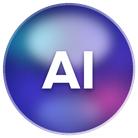
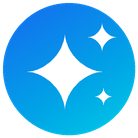
design(tabs): the AI tab is a flat brand-gradient disc with a white spark — the one filled item in the row, no glow

diff --git a/src/widgets/tab-bar/NativeTabsBar.tsx b/src/widgets/tab-bar/NativeTabsBar.tsx
@@ -18,12 +18,13 @@ const SF: Record<string, string> = {
   headphones: "headphones", video: "video.fill", "bar-chart-2": "chart.bar.fill", sliders: "slider.horizontal.3", bell: "bell.fill", user: "person.fill",
 };
 
-// The AI tab: a coloured glass sphere (aurora under a glass lens, "AI" mark) that lights up with the brand gradient while the tab is open.
+// The AI tab: a flat disc in the brand gradient with a white four-point spark — the one filled, coloured item in the row, so it stands apart
+// from the symbol tabs; the selected state is a touch deeper with a white ring.
 installTabReach();
 
-const AI_PEARL = { default: require("../../../assets/tabs/ai-glass.png"), selected: require("../../../assets/tabs/ai-glass-on.png") };
+const AI_DISC = { default: require("../../../assets/tabs/ai-glass.png"), selected: require("../../../assets/tabs/ai-glass-on.png") };
 // On the light bar the bead takes a blue spark and a deeper rim so it reads (the lit state is the same).
-const AI_PEARL_LIGHT = { default: require("../../../assets/tabs/ai-glass-light.png"), selected: require("../../../assets/tabs/ai-glass-on.png") };
+const AI_DISC_LIGHT = { default: require("../../../assets/tabs/ai-glass-light.png"), selected: require("../../../assets/tabs/ai-glass-on.png") };
 
 // The system tab bar (UITabBar): Liquid Glass on iOS 26 with no custom drawing. Every route is declared, in the role's order first;
 // the ones outside the role or not allowed right now are hidden. `bar` is false on screens that ask for no bar (the AI chat).
@@ -55,8 +56,8 @@ export function NativeTabsBar({ bar }: { bar: boolean }) {
             disabled={guard} // a visitor's tap on a personal tab never switches it: the (still emitted) press sends them to sign in
             listeners={guard ? { tabPress: () => router.push("/auth/login") } : undefined}
           >
-            {def.center ? <NativeTabs.Trigger.Icon src={dark ? AI_PEARL : AI_PEARL_LIGHT} renderingMode="original" /> : <NativeTabs.Trigger.Icon sf={SF[def.icon] as never} />}
-            <NativeTabs.Trigger.Label hidden={def.center}>{t(def.labelKey)}</NativeTabs.Trigger.Label>
+            {def.center ? <NativeTabs.Trigger.Icon src={dark ? AI_DISC : AI_DISC_LIGHT} renderingMode="original" /> : <NativeTabs.Trigger.Icon sf={SF[def.icon] as never} />}
+            <NativeTabs.Trigger.Label>{t(def.labelKey)}</NativeTabs.Trigger.Label>
             {n ? <NativeTabs.Trigger.Badge>{n > 99 ? "99+" : String(n)}</NativeTabs.Trigger.Badge> : null}
           </NativeTabs.Trigger>
         );

diff --git a/DESIGN.md b/DESIGN.md
@@ -45,8 +45,7 @@ iOS (flags on) is a glass-on-colour system.
 - **Cards** are frosted panes, not real glass (a native glass view per list row is too heavy): `glassFill` + `glassLine`, a short bright
   top sheen, no shadow (a shadow would show through the translucent fill). Card-shaped surfaces that are not `<Card>` (rows, panels,
   inputs) use the same two tokens; `surface` stays for opaque things (thumbs, sheets' content). Do not nest cards.
-- The tab bar is the system `NativeTabs` bar; the app's theme is handed to iOS (`Appearance.setColorScheme`) so it matches. The AI tab
-  is a glass-pearl icon (`assets/tabs/ai-glass*.png`: a light-bar variant with a blue spark, a lit selected state) and has no caption.
+- The tab bar is the system `NativeTabs` bar; the app's theme is handed to iOS (`Appearance.setColorScheme`) so it matches. The AI tab is the one filled item in the row: a flat disc in the brand gradient with a white spark (`assets/tabs/ai-glass*.png`; the selected state is a touch deeper with a white ring), with its caption. Glows, pulses, aurora and glass spheres were tried and dropped as too flashy for the calm, exact tone.
 
 ## Materials (Android — Material 3 Expressive)
 
